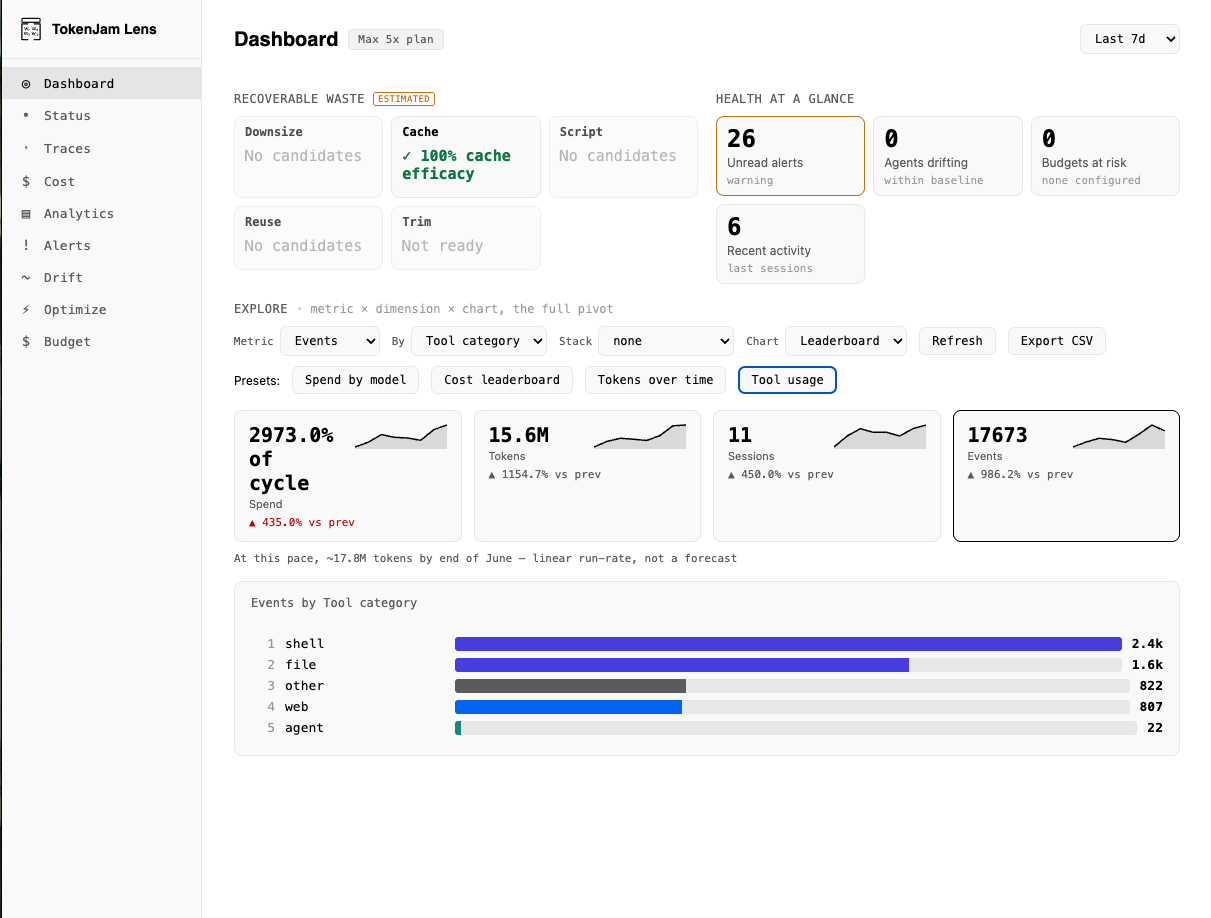
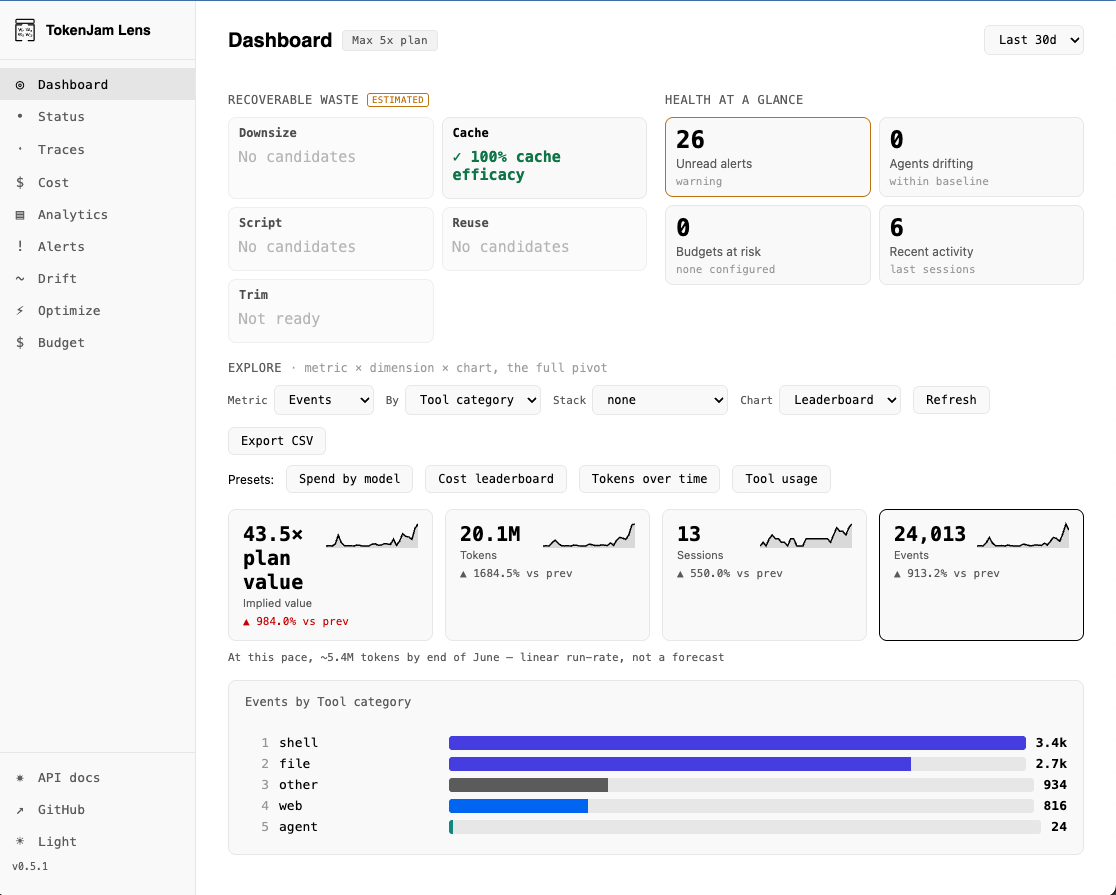
docs: 0.5.1 waterfall + tool-board screenshots; ASCII wordmark in header
Swap the Trace waterfall (now the #244 redesign — named-span column,
magnitude bars, status icons, offsets) and the tool-usage explorer for
fresh 0.5.1 captures, and replace the "# TokenJam" header text with the
ASCII wordmark image.

Claude-Session: https://claude.ai/code/session_015e3DZGhb1R5sXX2x52Y2Ar

diff --git a/README.md b/README.md
@@ -2,7 +2,7 @@
 
 <img src="https://tokenjam.dev/icon.svg" alt="TokenJam" width="72" height="72">
 
-# TokenJam
+<img src="docs/screenshots/tokenjam-wordmark.png" alt="TokenJam" width="260">
 
 ### Token Efficiency For AI Agents
 